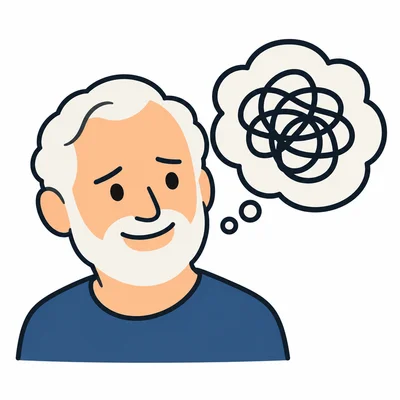
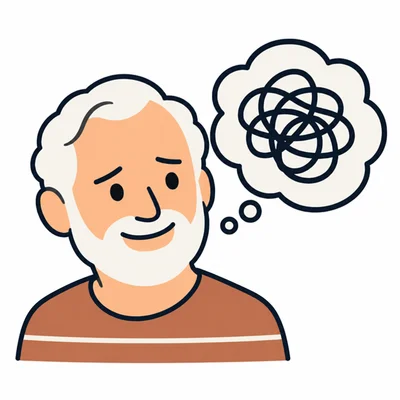
Add custom choices and encouragement phrases with warmer character art

diff --git a/src/Steer.tsx b/src/Steer.tsx
@@ -1,6 +1,6 @@
 import { useEffect, useRef, useState } from 'react';
 import { ArrowLeft, ArrowRight, Check, ChevronLeft, ChevronRight, Dumbbell, Moon, Utensils, Compass, Settings as SettingsIcon, ChartNoAxesColumn, BookOpen } from 'lucide-react';
-import { defaults, imageFor, entriesInPeriod, summarize, timeline, periodBounds, shiftPeriod, localInput, settingsSchema, type Settings, type Category, type Entry, type Period } from './journal';
+import { defaults, imageFor, entriesInPeriod, summarize, timeline, periodBounds, shiftPeriod, localInput, settingsSchema, chooseEncouragement, choicePictures, type Settings, type Category, type Entry, type Period } from './journal';
 import {readJournal,writeJournal,requestPersistentStorage} from './storage';
 import DeviceTools from './DeviceTools';
 import OfflineStatus from './OfflineStatus';
@@ -15,6 +15,9 @@ export default function Steer() {
     const [screen, setScreen] = useState<Screen>('home'), [settings, setSettings] = useState<Settings>(defaults), [entries, setEntries] = useState<Entry[]>([]), [loaded, setLoaded] = useState(false), [error, setError] = useState(''), [busy, setBusy] = useState(false);
     const [category, setCategory] = useState<Category>(defaults.categories[0]), [reflection, setReflection] = useState(false), [when, setWhen] = useState(''), [note, setNote] = useState(''), [saved, setSaved] = useState<Entry | null>(null), [editing, setEditing] = useState<Entry | null>(null);
     const [draft, setDraft] = useState<Entry | null>(null);
+    const [encouragement,setEncouragement]=useState('');
+    const lastEncouragement=useRef('');
+    function anotherEncouragement(){const phrase=chooseEncouragement(settings.encouragements,lastEncouragement.current);lastEncouragement.current=phrase;setEncouragement(phrase);}
     const momentId = useRef(''), pending = useRef(false), heading = useRef<HTMLHeadingElement>(null);
     async function load() { try {
         const data = await request();
@@ -48,7 +51,7 @@ export default function Steer() {
         pending.current = false;
         setBusy(false);
     } }
-    function begin(c: Category) { setCategory(c); setWhen(localInput(new Date())); setNote(''); momentId.current = crypto.randomUUID(); go('reminder'); }
+    function begin(c: Category) { anotherEncouragement(); setCategory(c); setWhen(localInput(new Date())); setNote(''); momentId.current = crypto.randomUUID(); go('reminder'); }
     function record(choice: Entry['choice']) { const at = reflection ? new Date(when) : new Date(); if (!Number.isFinite(at.getTime()) || at.getTime() > Date.now() + 60000) {
         setError('Choose a time in the past or present.');
         return;
@@ -60,7 +63,7 @@ export default function Steer() {
  {!loaded ? <section className="loading"><h1 ref={heading} tabIndex={-1}>Your moment to pause.</h1>{error ? <><p role="alert">{error}</p><button className="primary" onClick={() => void load()}>Try again</button><p className="small">Your journal stays on this device. Try reopening Steer without clearing website data.</p></> : <p>Opening your journal…</p>}</section> : <>
  {screen === 'home' && <section className="home"><img className="hero-character" src="./illustrations/splash-recipe-v2.webp" alt="Your illustrated companion" width="150" height="150"/><h1 ref={heading} tabIndex={-1}>Make today<br />a good day.</h1><button className="primary" onClick={() => { setReflection(false); go('choose'); }}>I’m in a moment <ArrowRight size={19}/></button><button className="text-button" onClick={() => { setReflection(true); go('choose'); }}>Record an earlier choice</button><details className="recipe-details"><summary>My recipe for success</summary><Recipe settings={settings}/></details></section>}
  {screen === 'choose' && <section><button className="back" onClick={() => go('home')}><ArrowLeft size={18}/>Back</button><p className="eyebrow">{reflection ? 'LOOKING BACK' : 'A MOMENT TO STEER'}</p><h1 ref={heading} tabIndex={-1}>{reflection ? 'What happened?' : 'What’s happening?'}</h1><p className="intro">{reflection ? 'Every choice can help you notice a pattern.' : 'Pick what’s pulling you off your plan.'}</p><div className="choices">{settings.categories.filter(c => c.active).map(c => <button className="choice-card" key={c.id} onClick={() => begin(c)}><img src={imageFor(c)} alt="" width="94" height="94"/><span>{c.label}</span></button>)}</div>{!settings.categories.some(c => c.active) && <p>Turn on a situation in Settings to get started.</p>}</section>}
- {screen === 'reminder' && <section className="reminder"><button className="back" onClick={() => go('choose')} disabled={busy}><ArrowLeft size={18}/>Situations</button><img className="moment-character" src={imageFor(category)} alt="" width="120" height="120"/><p className="eyebrow">{category.label}</p><h1 ref={heading} tabIndex={-1}>{reflection ? 'A moment to learn.' : settings.headline}</h1><p className="reminder-copy">{reflection ? 'Remember your choice as it happened. You can start fresh with the next one.' : settings.reminder}</p><div className="why"><span>The life I’m choosing</span><p>{settings.outcomes}</p></div>{reflection && <label className="field">When did it happen?<input type="datetime-local" value={when} max={localInput(new Date())} onChange={e => setWhen(e.target.value)} required/></label>}<details className="note-details"><summary>Add a note (optional)</summary><textarea aria-label="Note" placeholder="What was going on?" value={note} maxLength={1000} onChange={e => setNote(e.target.value)}/></details>{error && <p className="error" role="alert">{error}</p>}<button className="primary" disabled={busy} onClick={() => record('plan')}>{busy ? 'Saving…' : reflection ? 'I chose my plan' : 'I’m choosing my plan'}<Check size={19}/></button><button className="secondary" disabled={busy} onClick={() => record('original')}>{reflection ? 'I chose the original option' : 'I’m choosing the original option'}</button><p className="small">Both choices count in your journal.</p><details className="recipe-details"><summary>Remember my recipe</summary><Recipe settings={settings}/></details></section>}
+ {screen === 'reminder' && <section className="reminder"><button className="back" onClick={() => go('choose')} disabled={busy}><ArrowLeft size={18}/>Situations</button><img className="moment-character" src={imageFor(category)} alt="" width="120" height="120"/><p className="eyebrow">{category.label}</p><h1 ref={heading} tabIndex={-1}>{reflection ? 'A moment to learn.' : encouragement}</h1>{!reflection&&new Set(settings.encouragements).size>1&&<button className="text-button another-phrase" onClick={anotherEncouragement}>Another encouragement</button>}<p className="reminder-copy">{reflection ? 'Remember your choice as it happened. You can start fresh with the next one.' : settings.reminder}</p><div className="why"><span>The life I’m choosing</span><p>{settings.outcomes}</p></div>{reflection && <label className="field">When did it happen?<input type="datetime-local" value={when} max={localInput(new Date())} onChange={e => setWhen(e.target.value)} required/></label>}<details className="note-details"><summary>Add a note (optional)</summary><textarea aria-label="Note" placeholder="What was going on?" value={note} maxLength={1000} onChange={e => setNote(e.target.value)}/></details>{error && <p className="error" role="alert">{error}</p>}<button className="primary" disabled={busy} onClick={() => record('plan')}>{busy ? 'Saving…' : reflection ? 'I chose my plan' : 'I’m choosing my plan'}<Check size={19}/></button><button className="secondary" disabled={busy} onClick={() => record('original')}>{reflection ? 'I chose the original option' : 'I’m choosing the original option'}</button><p className="small">Both choices count in your journal.</p><details className="recipe-details"><summary>Remember my recipe</summary><Recipe settings={settings}/></details></section>}
  {screen === 'review' && draft && <section className="review"><button className="back" disabled={busy} onClick={()=>go('reminder')}><ArrowLeft size={18}/>Change my choice</button><p className="eyebrow">ONE MORE STEP</p><h1 ref={heading} tabIndex={-1}>Save this moment.</h1><p className="intro">Tap below to keep this choice in your journal on this device.</p><div className="receipt"><strong>{draft.categoryLabel}</strong><span>{draft.choice==='plan'?'My plan':'Original option'} · {dateLabel(draft.occurredAt)}</span><span>{draft.mode==='moment'?'Before acting':'Afterward'}</span>{draft.note&&<p>{draft.note}</p>}</div>{error&&<p className="error" role="alert">{error}</p>}<button className="primary" disabled={busy} onClick={saveChoice}>{busy?'Saving on this device…':'Save to my journal'}<Check size={19}/></button><p className="small">Not saved until you tap. No internet or account needed.</p></section>}
  {screen === 'saved' && saved && <section className="saved"><div className="saved-mark"><Check size={32}/></div><p className="eyebrow">SAVED ON THIS DEVICE</p><h1 ref={heading} tabIndex={-1}>{saved.choice === 'plan' ? 'Take that next step.' : 'You paused. That matters.'}</h1><p className="reminder-copy">{saved.choice === 'plan' ? 'You’ve remembered what matters to you. Now put your choice into action.' : 'One choice doesn’t define your day. The next moment is another chance to steer.'}</p><div className="receipt"><strong>{saved.categoryLabel}</strong><span>{saved.choice === 'plan' ? 'My plan' : 'Original option'} · {dateLabel(saved.occurredAt)}</span><span>{saved.mode === 'moment' ? 'Recorded before acting' : 'Recorded afterward'}</span></div><p className="small">Your choice is saved in this app’s local journal.</p><button className="primary" onClick={() => go('home')}>Done</button><button className="text-button" onClick={() => go('trends')}>See my trends</button><button className="text-button" onClick={() => { setEditing(saved); go('edit'); }}>Change this entry</button></section>}
  {screen === 'trends' && <Trends entries={entries} onEdit={e => { setEditing(e); go('edit'); }} onRecord={() => { setReflection(true); go('choose'); }} heading={heading}/>}
@@ -91,10 +94,13 @@ function SettingsForm({ settings, busy, error, onSave }: {
     onSave: (s: Settings) => void;
 }) {
     const [draft, setDraft] = useState(settings), [invalid, setInvalid] = useState('');
-    return <section><p className="eyebrow">MAKE IT YOURS</p><h1>My reminders.</h1><p className="intro">Words that help you remember how you want to live.</p><form onSubmit={e => { e.preventDefault(); const result = settingsSchema.safeParse(draft); if (!result.success) {
+    const [newChoice,setNewChoice]=useState(''),[newImage,setNewImage]=useState('splash-recipe-v2.webp'),[choiceError,setChoiceError]=useState(''),[notice,setNotice]=useState('');
+    function addChoice(){const label=newChoice.trim();if(!label){setChoiceError('Name your new choice first.');return;}if(draft.categories.some(c=>c.label.toLowerCase()===label.toLowerCase())){setChoiceError('That choice is already in your list. Use its Show checkbox to display it.');return;}if(draft.categories.length>=40){setChoiceError('You can save up to 40 choices.');return;}setDraft({...draft,categories:[...draft.categories,{id:crypto.randomUUID(),label,image:newImage,active:true}]});setNewChoice('');setChoiceError('');setNotice('Choice added to your list. Tap Save my settings below to keep it.');}
+
+    return <section><p className="eyebrow">MAKE IT YOURS</p><h1>My settings.</h1><p className="intro">Words that help you remember how you want to live.</p><form onSubmit={e => { e.preventDefault(); if(newChoice.trim()){setChoiceError('Tap Add choice to my list first, or clear the name before saving.');return;} const result = settingsSchema.safeParse({...draft,headline:draft.encouragements[0]}); if (!result.success) {
         setInvalid(result.error.issues[0].message);
         return;
-    } setInvalid(''); onSave(result.data); }}><label className="field">Encouragement<input value={draft.headline} maxLength={140} required onChange={e => setDraft({ ...draft, headline: e.target.value })}/></label><label className="field">A reminder in the moment<textarea value={draft.reminder} maxLength={500} required onChange={e => setDraft({ ...draft, reminder: e.target.value })}/></label><label className="field">The life I’m choosing<textarea value={draft.outcomes} maxLength={300} required onChange={e => setDraft({ ...draft, outcomes: e.target.value })}/></label><h2>My recipe for success</h2>{draft.recipe.map((r, i) => <fieldset key={i}><legend>Ingredient {i + 1}</legend><label className="field">Main idea<input value={r.title} required maxLength={120} onChange={e => setDraft({ ...draft, recipe: draft.recipe.map((v, j) => j === i ? { ...v, title: e.target.value } : v) })}/></label><label className="field">Details<textarea value={r.detail} maxLength={400} onChange={e => setDraft({ ...draft, recipe: draft.recipe.map((v, j) => j === i ? { ...v, detail: e.target.value } : v) })}/></label></fieldset>)}<h2>My situations</h2><p className="small">Rename or hide a button. Past entries stay in your journal.</p>{draft.categories.map((c, i) => <div className="category-edit" key={c.id}><input aria-label={`Situation ${i + 1}`} value={c.label} maxLength={80} required onChange={e => setDraft({ ...draft, categories: draft.categories.map((v, j) => j === i ? { ...v, label: e.target.value } : v) })}/><label><input type="checkbox" checked={c.active} onChange={e => setDraft({ ...draft, categories: draft.categories.map((v, j) => j === i ? { ...v, active: e.target.checked } : v) })}/>Show</label></div>)}{(invalid || error) && <p className="error" role="alert">{invalid || error}</p>}<button className="primary" disabled={busy} type="submit">{busy ? 'Saving…' : 'Save my reminders'}</button><p className="small">Your reminders and journal are saved only on this device.</p></form></section>;
+    } setInvalid(''); onSave(result.data); }}><h2>Encouragement phrases</h2><p className="small">A different phrase appears each moment. Keep the ones that help you, or write your own.</p>{draft.encouragements.map((phrase,i)=><div className="phrase-edit" key={i}><label className="field">Phrase {i+1}<textarea value={phrase} maxLength={140} required onChange={e=>setDraft({...draft,encouragements:draft.encouragements.map((p,j)=>j===i?e.target.value:p)})}/></label><button type="button" className="text-button" disabled={draft.encouragements.length===1} aria-label={`Remove phrase ${i+1}`} onClick={()=>setDraft({...draft,encouragements:draft.encouragements.filter((_,j)=>j!==i)})}>Remove</button></div>)}<button type="button" className="secondary" disabled={draft.encouragements.length>=20} onClick={()=>setDraft({...draft,encouragements:[...draft.encouragements,'']})}>Add encouragement phrase</button><label className="field">A reminder in the moment<textarea value={draft.reminder} maxLength={500} required onChange={e => setDraft({ ...draft, reminder: e.target.value })}/></label><label className="field">The life I’m choosing<textarea value={draft.outcomes} maxLength={300} required onChange={e => setDraft({ ...draft, outcomes: e.target.value })}/></label><h2>My recipe for success</h2>{draft.recipe.map((r, i) => <fieldset key={i}><legend>Ingredient {i + 1}</legend><label className="field">Main idea<input value={r.title} required maxLength={120} onChange={e => setDraft({ ...draft, recipe: draft.recipe.map((v, j) => j === i ? { ...v, title: e.target.value } : v) })}/></label><label className="field">Details<textarea value={r.detail} maxLength={400} onChange={e => setDraft({ ...draft, recipe: draft.recipe.map((v, j) => j === i ? { ...v, detail: e.target.value } : v) })}/></label></fieldset>)}<h2>My situations</h2><p className="small">Rename or hide a button. Past entries stay in your journal.</p>{draft.categories.map((c, i) => <div className="category-edit" key={c.id}><input aria-label={`Situation ${i + 1}`} value={c.label} maxLength={80} required onChange={e => setDraft({ ...draft, categories: draft.categories.map((v, j) => j === i ? { ...v, label: e.target.value } : v) })}/><label><input type="checkbox" checked={c.active} onChange={e => setDraft({ ...draft, categories: draft.categories.map((v, j) => j === i ? { ...v, active: e.target.checked } : v) })}/>Show</label></div>)}<fieldset className="new-choice"><legend>Add a choice</legend><label className="field">What pulls you off your plan?<input value={newChoice} maxLength={80} placeholder="For example, Putting things off" onChange={e=>{setNewChoice(e.target.value);setChoiceError('');}}/></label><details><summary>Choose a picture</summary><div className="picture-options" role="radiogroup" aria-label="Picture for the new choice">{choicePictures.map(p=><button key={p.image} type="button" role="radio" aria-checked={newImage===p.image} className={newImage===p.image?'selected':''} aria-label={p.label} onClick={()=>setNewImage(p.image)}><img src={`./illustrations/${p.image}`} alt="" width="54" height="54"/><span>{p.label}</span></button>)}</div></details><button type="button" className="secondary" disabled={draft.categories.length>=40} onClick={addChoice}>Add choice to my list</button>{choiceError&&<p className="error" role="alert">{choiceError}</p>}{notice&&<p className="small" role="status">{notice}</p>}</fieldset>{(invalid || error) && <p className="error" role="alert">{invalid || error}</p>}<button className="primary" disabled={busy} type="submit">{busy ? 'Saving…' : 'Save my settings'}</button><p className="small">Your reminders and journal are saved only on this device.</p></form></section>;
 }
 function EditEntry({ entry, categories, busy, error, onBack, onSave, onDelete }: {
     entry: Entry;

diff --git a/src/styles.css b/src/styles.css
@@ -2,3 +2,4 @@
 :root{font-family:-apple-system,BlinkMacSystemFont,'Segoe UI',sans-serif;color:#293747;background:#fff;font-synthesis:none;--blue:#365e89;--muted:#606d7a;--line:#e4e9ed}
 *{box-sizing:border-box}body{margin:0}button,input,textarea,select{font:inherit}button{cursor:pointer;-webkit-tap-highlight-color:transparent}button:disabled{cursor:default;opacity:.5}button,a,input,textarea,select,summary{touch-action:manipulation}button:focus-visible,a:focus-visible,input:focus-visible,textarea:focus-visible,select:focus-visible,summary:focus-visible{outline:3px solid #92b4d6;outline-offset:3px}h1:focus{outline:none}button{color:inherit}a{color:var(--blue)}.shell{max-width:480px;margin:auto;min-height:100dvh;padding:env(safe-area-inset-top) 24px calc(100px + env(safe-area-inset-bottom))}header{height:76px;display:flex;align-items:center;justify-content:space-between;gap:12px}.brand{font-size:26px;letter-spacing:-1px;font-weight:700;display:flex;align-items:center;gap:7px;border:0;background:none;padding:10px 0;color:var(--blue)}.header-note{font-size:12px;color:var(--muted)}main section{padding:18px 0 24px}h1{font-size:36px;line-height:1.12;letter-spacing:-1.15px;font-weight:650;margin:12px 0 18px}h2{font-size:21px;line-height:1.3;letter-spacing:-.35px;margin:32px 0 16px}p{line-height:1.55;margin:0 0 18px}.intro,.reminder-copy{font-size:18px;color:var(--muted)}.eyebrow{color:var(--blue);text-transform:uppercase;font-size:12px;font-weight:700;letter-spacing:1.5px;margin:14px 0 8px}.primary,.secondary{border-radius:14px;min-height:54px;padding:15px 18px;width:100%;display:flex;gap:10px;align-items:center;justify-content:center;font-size:16px;font-weight:600;line-height:1.35;margin:12px 0;border:1px solid transparent}.primary{background:var(--blue);color:white}.secondary{background:#fff;border-color:#bccad7;color:var(--blue)}.text-button{border:0;background:none;color:var(--blue);min-height:46px;padding:12px 8px;font-size:15px;display:block;margin:auto}.back{border:0;background:none;display:flex;align-items:center;gap:8px;color:var(--muted);padding:10px 0;min-height:44px;margin:-10px 0 20px}.small{font-size:13px;line-height:1.6;color:var(--muted);margin:12px 0 0}.home{text-align:center}.hero-character{object-fit:contain;display:block;margin:-10px auto 0}.home h1{font-size:39px;margin:8px 0 28px}.recipe-details{border-top:1px solid var(--line);margin-top:25px;text-align:left;padding-top:8px}summary{padding:16px 0;cursor:pointer;font-size:15px;font-weight:600;color:var(--blue);min-height:48px}.recipe-list{margin:6px 0}.recipe-item{display:flex;gap:15px;padding:10px 0}.recipe-item svg{flex-shrink:0;color:var(--blue);margin-top:3px}.recipe-item p{font-size:15px;margin:0}.recipe-item strong{font-weight:600}.recipe-item span{display:block;color:var(--muted);margin-top:3px;font-size:14px}.choices{display:grid;grid-template-columns:repeat(2,minmax(0,1fr));gap:12px;margin-top:26px}.choice-card{border:1px solid var(--line);background:#fff;border-radius:18px;min-height:155px;padding:12px 8px 16px;display:flex;flex-direction:column;align-items:center;justify-content:center;gap:8px}.choice-card:hover{border-color:#8aa9c7;background:#fbfcfe}.choice-card img{object-fit:contain}.choice-card span{font-size:16px;line-height:1.25;font-weight:550}.reminder{text-align:center}.reminder .back{text-align:left}.moment-character{display:block;margin:-5px auto 14px;object-fit:contain}.reminder h1{font-size:35px;margin-top:17px}.reminder-copy{line-height:1.65}.why{background:#f4f7fa;border-radius:18px;padding:21px 16px;margin:24px 0}.why>span{font-size:12px;letter-spacing:1px;text-transform:uppercase;color:var(--muted)}.why p{font-size:19px;white-space:pre-line;line-height:1.55;margin:9px 0 0}.note-details{text-align:left;margin:0 0 14px}.note-details summary{font-weight:400;font-size:14px}.field{display:flex;flex-direction:column;text-align:left;gap:8px;font-size:14px;font-weight:550;margin:20px 0}input,textarea,select{width:100%;min-width:0;min-height:49px;border:1px solid #c8d3dc;border-radius:10px;padding:12px;background:#fff;color:#293747;font-size:16px;font-weight:400}textarea{resize:vertical;min-height:106px;line-height:1.5}input[type=datetime-local]{appearance:none;min-height:51px}fieldset{border:1px solid var(--line);border-radius:14px;padding:0 16px 8px;margin:22px 0}legend{font-size:14px;font-weight:600;padding:0 7px;color:var(--muted)}.error{border-radius:10px;background:#fff0ec;padding:14px;color:#883c27;font-size:15px;text-align:left}.saved{text-align:center;padding-top:50px!important}.saved-mark{background:#edf4f1;color:#467564;border-radius:50%;height:74px;width:74px;display:grid;place-items:center;margin:0 auto 28px}.receipt{padding:20px;border-block:1px solid var(--line);margin:25px 0;display:flex;flex-direction:column;gap:8px}.receipt span{font-size:14px;color:var(--muted)}nav{position:fixed;bottom:0;left:50%;transform:translateX(-50%);width:100%;max-width:480px;background:rgba(255,255,255,.98);border-top:1px solid var(--line);display:grid;grid-template-columns:repeat(4,1fr);padding:8px 12px calc(9px + env(safe-area-inset-bottom));z-index:10}nav button{display:flex;flex-direction:column;align-items:center;gap:5px;padding:8px 5px;border:0;background:none;color:var(--muted);font-size:11px;min-height:49px}nav button.active{color:var(--blue);font-weight:700}.segmented{display:flex;gap:5px;background:#f0f3f6;padding:5px;border-radius:13px;margin:24px 0 8px}.segmented button{flex:1;border:0;border-radius:9px;background:none;font-size:16px;padding:12px 8px;min-height:45px;color:var(--muted)}.segmented .selected{background:white;color:var(--blue);font-weight:600;box-shadow:0 1px 4px #253d5b12}.period-nav{display:flex;align-items:center;justify-content:space-between;gap:4px;margin:12px -5px}.period-nav strong{font-size:15px;text-align:center}.period-nav button{border:0;background:none;min-height:44px;min-width:44px;display:grid;place-items:center;color:var(--blue)}.stats{display:grid;grid-template-columns:repeat(3,1fr);gap:8px;margin:27px 0 18px}.stats>div{display:flex;flex-direction:column;align-items:center;gap:8px}.stats strong{font-size:33px;line-height:1;font-weight:600}.stats span{font-size:12px;color:var(--muted)}.stat-copy{font-size:14px;line-height:1.65;color:var(--muted);border-top:1px solid var(--line);padding-top:20px}.stat-copy strong{color:var(--blue)}.chart{display:flex;gap:10px;height:164px;margin-top:24px;align-items:stretch}.chart-column{flex:1;min-width:0;display:flex;flex-direction:column;align-items:center;gap:9px;font-size:11px;color:var(--muted)}.chart-count{font-size:12px;font-weight:600}.bar-track{height:108px;width:100%;display:flex;align-items:flex-end;justify-content:center;border-bottom:1px solid var(--line)}.bar{max-width:28px;width:100%;border-radius:5px 5px 0 0;overflow:hidden;display:flex;flex-direction:column}.bar-plan,.plan-dot{background:var(--blue)}.bar-original,.original-dot{background:#d6c2a4}.legend{display:flex;justify-content:center;gap:20px;font-size:12px;color:var(--muted);margin:15px 0 25px}.legend span{display:flex;align-items:center;gap:6px}.legend i{width:9px;height:9px;border-radius:2px}.breakdown>div{padding:14px 0;border-bottom:1px solid var(--line);display:flex;flex-direction:column;gap:6px}.breakdown strong{font-size:16px;font-weight:550}.breakdown span{font-size:14px;color:var(--muted)}.entry{display:flex;gap:10px;align-items:center;width:100%;padding:18px 0;background:none;border:0;border-bottom:1px solid var(--line);text-align:left}.entry>div{flex:1;min-width:0}.entry strong{display:block;font-size:15px;font-weight:550}.entry div>span{display:block;font-size:12px;color:var(--muted);margin-top:6px;line-height:1.5}.entry p{font-size:14px;color:var(--muted);margin:8px 0 0;overflow-wrap:anywhere}.badge{padding:6px 8px;font-size:11px;border-radius:7px;white-space:nowrap}.badge.plan{background:#edf3f9;color:var(--blue)}.badge.original{background:#f4eee6;color:#735d3c}.entry>svg{flex-shrink:0;color:var(--muted)}.trend-note{margin-top:26px}.empty{text-align:center;padding:24px 12px;background:#f8fafb;border-radius:16px;margin-top:25px;color:var(--muted)}.empty h2{margin:15px 0;font-size:21px;color:#293747}.empty p{font-size:15px}.category-edit{display:flex;gap:10px;align-items:center;margin:12px 0}.category-edit>input{flex:1}.category-edit label{display:flex;align-items:center;gap:6px;font-size:13px;min-height:44px}.category-edit input[type=checkbox]{width:19px;min-height:19px;height:19px;accent-color:var(--blue)}.delete-confirm{text-align:center;background:#faf6f2;padding:18px;border-radius:14px;margin-top:22px}.danger{border:0;background:#8d443a;color:white;border-radius:10px;padding:12px 22px;min-height:48px}.loading{padding-top:80px}.loading a{display:block;margin-top:20px;text-align:center}@media(min-width:700px){body{background:#f5f7f9}.shell{background:white;min-height:100vh;border-inline:1px solid var(--line);padding-inline:30px}nav{border-inline:1px solid var(--line)}}@media(max-width:360px){.shell{padding-inline:18px}h1,.reminder h1{font-size:31px}.header-note{font-size:11px}.choice-card span{font-size:15px}.chart{gap:6px}}
 .device-tools{border-top:1px solid var(--line);margin-top:25px;padding-bottom:20px}.device-tools>p,.device-tools details p,.device-tools li{font-size:15px;line-height:1.6;color:var(--muted)}.device-tools ol{padding-left:24px}.device-tools li{margin:10px 0}.device-tools details{border-bottom:1px solid var(--line);padding:5px 0 14px}.device-tools input[type=file]{font-size:14px;padding:12px 8px}.restore-preview{padding:15px;background:#f4f7fa;border-radius:14px}.check-label{display:flex;align-items:flex-start;gap:10px;line-height:1.5;font-size:15px}.check-label input{width:20px;min-height:20px;margin-top:2px;flex-shrink:0}.device-message{padding:15px;background:#edf4f1;border-radius:12px;overflow-wrap:anywhere}.review .receipt{overflow-wrap:anywhere}.review .receipt p{margin:5px 0;text-align:left}.offline-status{padding-bottom:18px}input[type=checkbox]{accent-color:var(--blue)}img{max-width:100%}
+.phrase-edit{border-bottom:1px solid var(--line);padding-bottom:8px}.phrase-edit .field{margin-bottom:0}.phrase-edit textarea{min-height:76px}.phrase-edit>.text-button{margin:0 0 0 auto;font-size:13px}.another-phrase{font-size:13px;margin:-9px auto 16px;padding:7px;min-height:40px}.picture-options{display:grid;grid-template-columns:repeat(3,minmax(0,1fr));gap:8px}.picture-options button{background:white;border:1px solid var(--line);border-radius:12px;padding:9px 4px;display:flex;align-items:center;flex-direction:column;gap:6px}.picture-options .selected{border:2px solid var(--blue);background:#edf3f9}.picture-options span{font-size:11px;line-height:1.3}.new-choice{padding-bottom:16px}

diff --git a/src/journal.ts b/src/journal.ts
@@ -1,11 +1,19 @@
 import { z } from 'zod';
+export const starterEncouragements = [
+    'You can make the harder choice.',
+    'A little hard now. A little prouder later.',
+    'Pause. Remember the life you want.',
+    'You only need to choose this next step.'
+];
 export const categorySchema = z.object({ id: z.string().min(1).max(80), label: z.string().trim().min(1).max(80), image: z.string().max(80), active: z.boolean() });
 export const settingsSchema = z.object({
-    headline: z.string().trim().min(1).max(140), reminder: z.string().trim().min(1).max(500),
+    headline: z.string().trim().min(1).max(140),
+    encouragements: z.array(z.string().trim().min(1, 'Write a phrase or remove the empty one.').max(140)).min(1).max(20).optional(),
+    reminder: z.string().trim().min(1).max(500),
     outcomes: z.string().trim().min(1).max(300),
     recipe: z.array(z.object({ title: z.string().trim().min(1).max(120), detail: z.string().max(400) })).length(4),
     categories: z.array(categorySchema).min(1).max(40).refine(a => new Set(a.map(x => x.id)).size === a.length, 'Choices must have unique IDs')
-});
+}).transform(settings => ({...settings, encouragements: settings.encouragements ?? [settings.headline, ...starterEncouragements.filter(phrase => phrase !== settings.headline)]}));
 export type Settings = z.infer<typeof settingsSchema>;
 export type Category = Settings['categories'][number];
 export type Entry = {
@@ -20,6 +28,7 @@ export type Entry = {
 };
 export const defaults: Settings = {
     headline: 'You can make the harder choice.',
+    encouragements: [...starterEncouragements],
     reminder: 'It may feel hard right now. Think about how proud you’ll feel afterward. One choice, right now.',
     outcomes: 'Sharp mind. Happy mind.\nHealthy body. Long life.',
     recipe: [{ title: 'Get plenty of rest.', detail: '' }, { title: 'Get up and move.', detail: 'Do my workout, prioritize strength, move daily, and stay on schedule.' }, { title: 'Eat protein + fiber.', detail: 'Limit junk food. Eat sensible portions.' }, { title: 'Practice self-control.', detail: 'Pause, remember my plan, and choose deliberately.' }],
@@ -27,6 +36,11 @@ export const defaults: Settings = {
 };
 export const knownImages = new Set(defaults.categories.map(c => c.image));
 export function imageFor(category: Category) { return knownImages.has(category.image) ? `./illustrations/${category.image}` : './illustrations/splash-recipe-v2.webp'; }
+export const choicePictures = [{label:'Steer companion',image:'splash-recipe-v2.webp'}, ...defaults.categories.map(c=>({label:c.label,image:c.image}))];
+export function chooseEncouragement(phrases:string[],previous:string,random:()=>number=Math.random){
+    const unique=[...new Set(phrases)];const different=unique.filter(phrase=>phrase!==previous);const candidates=different.length?different:unique;
+    return candidates[Math.floor(random()*candidates.length)]??starterEncouragements[0];
+}
 const recordFields = { categoryId: z.string().min(1).max(80), categoryLabel: z.string().trim().min(1).max(80), choice: z.enum(['plan', 'original']), mode: z.enum(['moment', 'reflection']), occurredAt: z.string().datetime().refine(v => new Date(v).getTime() <= Date.now() + 60000 && new Date(v).getFullYear() >= 2000, 'Choose a time in the past or present'), note: z.string().max(1000) };
 export const mutationSchema = z.discriminatedUnion('action', [
     z.object({ action: z.literal('record'), id: z.string().uuid(), ...recordFields }),

diff --git a/tests/storage.test.ts b/tests/storage.test.ts
@@ -15,3 +15,6 @@ test('storage failure rejects the save and preserves earlier records',async()=>{
 test('backup round trip and import are additive, idempotent, and preserve settings by default',async()=>{const value=choice();await writeJournal(value);const backup=parseBackup(JSON.stringify(makeBackup(await readJournal())));await writeJournal({...value,action:'edit',note:'Newer local edit'});await writeJournal({action:'settings',settings:{...defaults,headline:'Keep me'}});backup.entries.push({...backup.entries[0],id:crypto.randomUUID()});assert.equal(await importBackup(backup,false),1);assert.equal(await importBackup(backup,false),0);let current=await readJournal();assert.equal(current.entries.find(e=>e.id===value.id)?.note,'Newer local edit');assert.equal(current.settings.headline,'Keep me');await importBackup(backup,true);current=await readJournal();assert.equal(current.settings.headline,defaults.headline);});
 test('invalid backup leaves journal untouched',async()=>{await writeJournal(choice());for(const value of ['{}','not JSON',JSON.stringify({app:'steer',version:9})])assert.throws(()=>parseBackup(value));assert.equal((await readJournal()).entries.length,1);});
 test('journal storage never uses the network',async()=>{const original=globalThis.fetch;globalThis.fetch=async()=>{throw new Error('Network must not be used');};try{await writeJournal(choice());assert.equal((await readJournal()).entries.length,1);const backup=makeBackup(await readJournal());await importBackup(backup,false);}finally{globalThis.fetch=original;}});
+
+test('new choices and phrase lists persist and survive backup restore',async()=>{const category={id:crypto.randomUUID(),label:'Putting things off',image:'splash-recipe-v2.webp',active:true};const settings={...defaults,categories:[...defaults.categories,category],encouragements:['Start small.','Remember tomorrow.']};await writeJournal({action:'settings',settings});let journal=await readJournal();assert.deepEqual(journal.settings.encouragements,settings.encouragements);assert.equal(journal.settings.categories.at(-1)?.label,category.label);await writeJournal({...choice(),categoryId:category.id,categoryLabel:category.label});const backup=parseBackup(JSON.stringify(makeBackup(await readJournal())));await writeJournal({action:'settings',settings:defaults});await importBackup(backup,true);journal=await readJournal();assert.equal(journal.entries[0].categoryId,category.id);assert.deepEqual(journal.settings.encouragements,settings.encouragements);});
+test('old backup without phrase list remains importable',()=>{const {encouragements:_,...oldSettings}=defaults;const restored=parseBackup(JSON.stringify({app:'steer',version:1,exportedAt:new Date().toISOString(),settings:{...oldSettings,headline:'My original words'},entries:[]}));assert.equal(restored.settings.encouragements[0],'My original words');});

diff --git a/tests/journal.test.ts b/tests/journal.test.ts
@@ -1,3 +1,4 @@
+import {settingsSchema,chooseEncouragement} from '../src/journal.ts';
 import { test } from 'node:test';
 import assert from 'node:assert/strict';
 import { periodBounds, shiftPeriod, entriesInPeriod, summarize, timeline, mutationSchema, defaults, type Entry } from '../src/journal.ts';
@@ -9,3 +10,7 @@ test('month timeline assigns each recorded choice exactly once', () => { const r
 test('empty journals never imply perfect or failed choices', () => { assert.equal(summarize([]).rate, null); assert.equal(summarize([]).total, 0); });
 test('input validation rejects future dates, invalid choices, oversized notes and duplicate category IDs', () => { const valid = { action: 'record', ...entry('2025-10-01T15:00:00') }; assert.equal(mutationSchema.safeParse(valid).success, true); for (const patch of [{ choice: 'unknown' }, { occurredAt: new Date(Date.now() + 86400000).toISOString() }, { note: 'x'.repeat(1001) }])
     assert.equal(mutationSchema.safeParse({ ...valid, ...patch }).success, false); assert.equal(mutationSchema.safeParse({ action: 'settings', settings: { ...defaults, categories: [defaults.categories[0], defaults.categories[0]] } }).success, false); });
+
+test('legacy settings preserve custom encouragement while adding phrase options',()=>{const {encouragements:_,...legacy}=defaults;const result=settingsSchema.parse({...legacy,headline:'Remember my own plan.'});assert.equal(result.encouragements[0],'Remember my own plan.');assert.ok(result.encouragements.length>1);assert.equal(result.recipe[0].title,legacy.recipe[0].title);});
+test('encouragement selection avoids an immediate repeat and supports a single phrase',()=>{assert.equal(chooseEncouragement(['One','Two'],'One',()=>0),'Two');assert.equal(chooseEncouragement(['One'],'One',()=>0),'One');assert.equal(chooseEncouragement(['One','One'],'One',()=>0),'One');});
+test('phrase lists require at least one nonempty option',()=>{for(const encouragements of [[],[' '],Array(21).fill('Too many')])assert.equal(settingsSchema.safeParse({...defaults,encouragements}).success,false);});

diff --git a/docs/illustration-edits.md b/docs/illustration-edits.md
@@ -1,0 +1,20 @@
+# Character shirt update
+
+Edited with the built-in image generation tool, using each existing illustration as its edit target. The generated images were inspected and exported as 400px WebP files for the iPhone interface. The Home Screen character icon uses a 180px PNG export of the splash illustration.
+
+The final prompt used for each image:
+
+> Precise-object-edit. Edit ONLY the man's shirt in the supplied flat cartoon illustration. Change the blue shirt to muted warm terracotta / burnt clay (#B66E50), with one simple thin cream (#F4ECDD) stripe across the chest where visible. Same dark outlines, shirt shape, same man, face, hair, skin, expression, pose, objects, framing, and plain white background. All other blue objects, bedding, moon, television etc remain blue. No additional objects, text, shadows, textures, patterns, or detail. Small iPhone button artwork, bold simple flat colors. Return a single square illustration of this exact scene, preserving whitespace and crop.
+
+Final assets retain their existing filenames so saved local choices keep the right picture:
+
+- `public/illustrations/splash-recipe-v2.webp`
+- `public/illustrations/option-a-scrolling-v2.webp`
+- `public/illustrations/option-a-seconds-v2.webp`
+- `public/illustrations/option-a-junk-food-v2.webp`
+- `public/illustrations/option-a-unplanned-eating-v2.webp`
+- `public/illustrations/option-a-staying-up-late-v2.webp`
+- `public/illustrations/option-a-negative-self-talk-v2.webp`
+- `public/illustrations/option-a-lingering-in-bed-v2.webp`
+- `public/illustrations/option-a-watching-movies-v2.webp`
+- `public/apple-touch-icon.png`

diff --git a/README.md b/README.md
@@ -10,6 +10,8 @@ A simple personal decision journal for iPhone: pause, remember your plan, choose
 4. Choose a situation, read your reminder, select your choice, then tap **Save to my journal**.
 5. Wait for **Saved on this device**. Weekly and monthly trends include the saved choice.
 
+Settings lets you add choices with a picture, rename or hide existing choices, and edit a list of encouragement phrases. Phrases vary between moments without an immediate repeat; the reminder screen also has an **Another encouragement** button. Tap **Save my settings** to keep changes on this device. Existing custom reminders and older backups remain compatible.
+
 Settings includes installation help, offline status, editable reminders, and backup/restore. Offline use becomes available after the complete app shell downloads successfully. A new app version waits for all open Steer windows to close before taking over.
 
 ## Where your data lives
